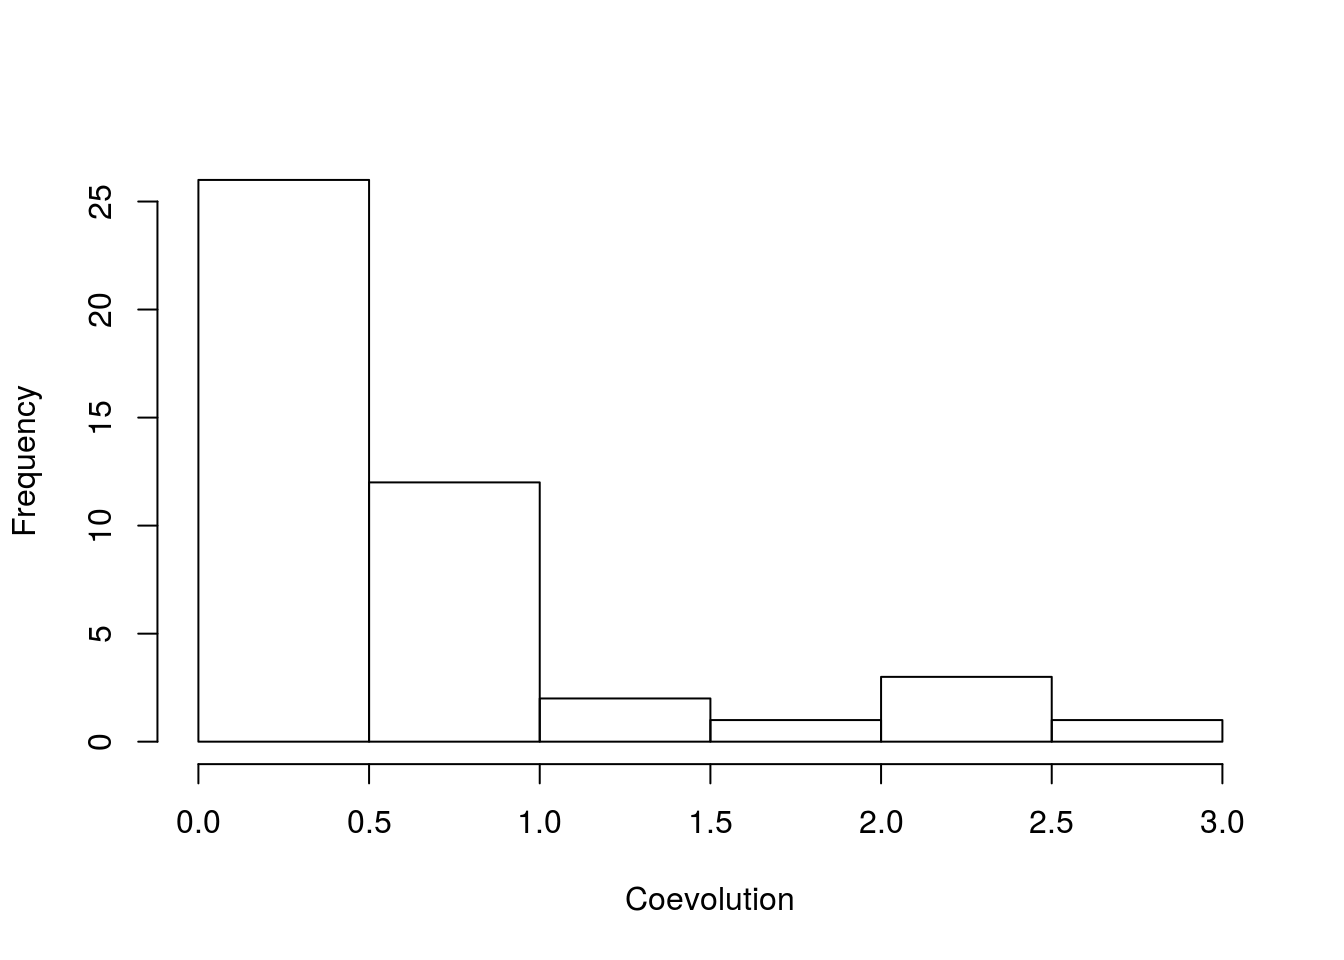
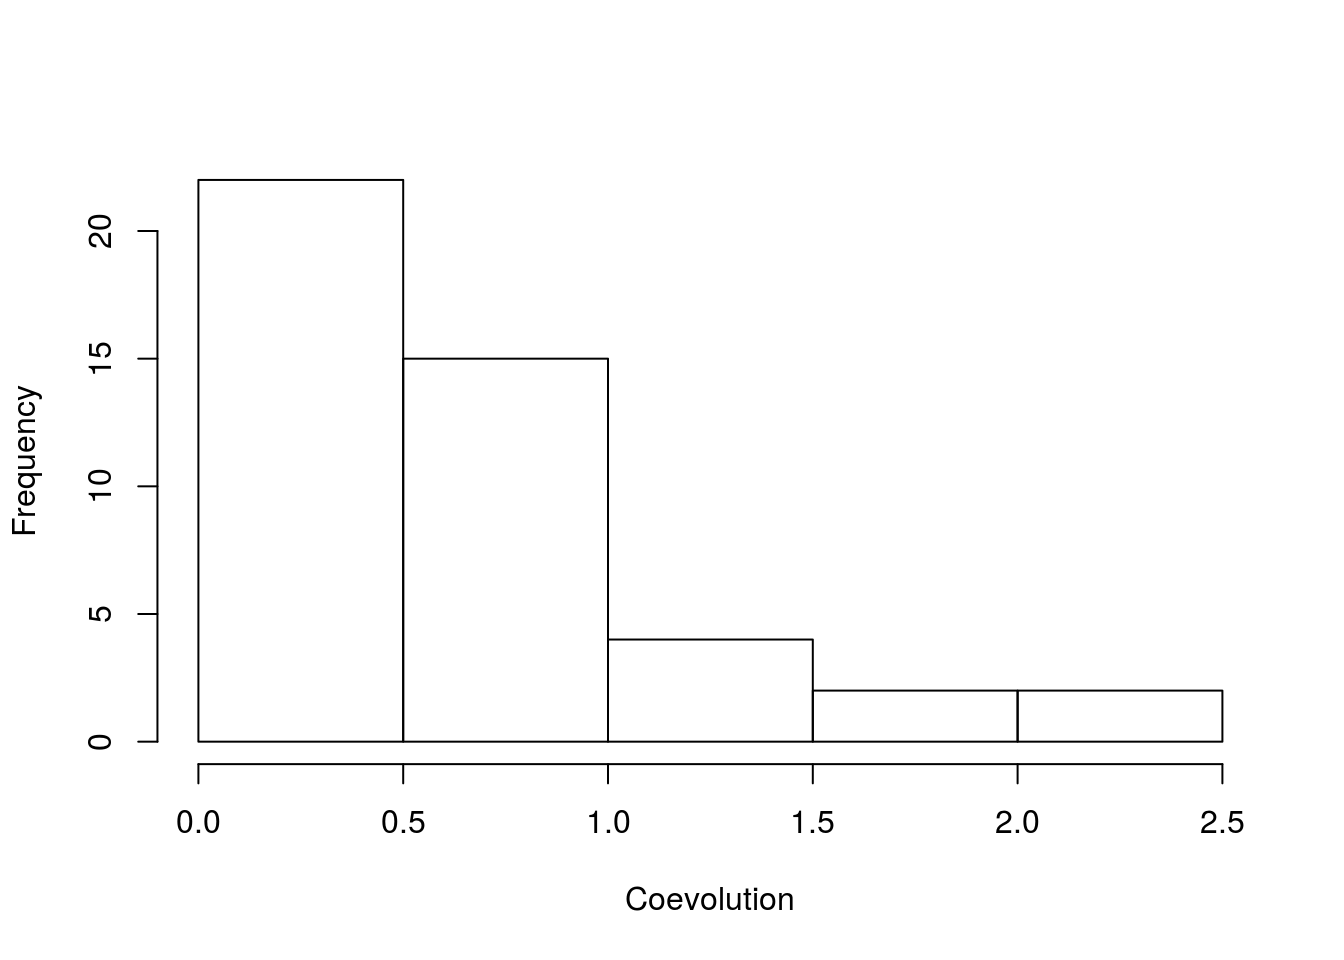
stuff

diff --git a/outline.html b/outline.html
@@ -230,21 +230,28 @@ output:
 <h2>Background</h2>
 <div id="coevolution-and-its-measurement" class="section level3">
 <h3>Coevolution and its measurement</h3>
+<p>I define an <strong>interaction community</strong> as a graph whose vertices represent a set of species and is connected in the graph-theoretic sense by edges which represent pairwise interactions. This means that for any two species, we can traverse the community via pairwise interactions to get from one species to any other species. If the graph is disconnected, I refer to this set of species as a composite community since it would be the union of a set of component interaction communities.</p>
+<p>A <strong>coevolving community</strong> is a subset of an interaction community that is connected in the graph-theoretic sense by coevolving pairs of species. Thus, an interaction community is a coevolving community if all of its members have sufficient genetic variation. In light of the above discussion, all interaction communities are trivially coevolving communities. The primary difference between the two is perspective. One notion focuses merely on whether or not species interact while the other includes the strengths by which they coevolve.</p>
 <p>It is important to distinguish between species that have coevolved and species that are currently coevolving. The classic idea of coevolution involves the observation of a pair of traits in two interacting species that appear well matched. Textbook examples include the proboscis length of Darwins moth and the corolla length of Darwins orchid as well as the levels of TTX in the flesh of newts of the genus Taricha and the resistance to TTX in the predatory snakes Thamnophsis sertalis. These are traits that have supposedly evolved over relatively long periods of time through the interactions of these species pairs. What makes these cases especially distinct as putative examples of coevolution is the fact that both traits in each pair are abnormal and thus seem to have simultaneously evolved in response to the interaction. This reciprocal response to selection induced by their interaction is the definition of coevolution provided by Daniel Janzen (citation).</p>
 <p>However, by this definition alone, these classic cases of potentially coevolved traits provide only a small subset of all the coevolution that has occurred and is occurring in nature. By this definition, species are not required to interact for long periods of time to coevolve. Instead they just need to exert reciprocal selection on one another and also respond to that selection. For any pair of interacting species there is certainly some amount of selection being imparted by one onto the other, though the strength of this selection may be so trivial it would escape any method of detection ever concieved. Hence, so long as there is sufficient genetic variation underlying the trait in both parties, any currently interacting pairs of species are coevolving by default. If their coevolution is having noticable impacts on the evolutionary trajectories of these species, the situation returns to the colloquial notion of coevolution.</p>
-<p>The point is not that the currently accepted definition of coevolution needs to be modified, but that it implies a much broader set of situations than typically thought of. This observation leads neatly to definitions of coevolution in the broader community context where a set of many interacting species are considered at once. However, before I dive into these definitions, we can use a bit of math to clarify this discussion.</p>
-<p>In quantitative genetics the breeder’s equation is the primary engine that drives many models of evolution. This equation can be written <span class="math inline">\(\Delta\bar z=G\beta\)</span> where <span class="math inline">\(\Delta\bar z\)</span> represents the change in mean trait of a population over a single generation, <span class="math inline">\(G\)</span> is the additive genetic variance of that trait and <span class="math inline">\(\beta\)</span> is the selection gradient that denotes the magnitude and direction of selection. We can partition the selection gradient into biotic <span class="math inline">\((\mathcal{B})\)</span> and abiotic <span class="math inline">\((\mathcal{A})\)</span> sources to obtain <span class="math inline">\(\beta=\mathcal{B}+\mathcal{A}\)</span>. For a collection of species I write <span class="math inline">\(\mathcal{B}_{ij}\)</span> for the biotic selection gradient imposed on species <span class="math inline">\(i\)</span> by species <span class="math inline">\(j\)</span>. The net biotic selection gradient for species <span class="math inline">\(i\)</span> is <span class="math inline">\(\mathcal{B}_i=\sum_j\mathcal{B}_{ij}\)</span>. By Janzen’s definition species <span class="math inline">\(i\)</span> and <span class="math inline">\(j\)</span> are coevolving iff <span class="math inline">\(|\mathcal{B}_{ij}|,|\mathcal{B}_{ji}|&gt;0\)</span> and <span class="math inline">\(G_i,G_j&gt;0\)</span>. Note that for a pair of coevolving species it is not necessary for <span class="math inline">\(|\beta_i|,|\beta_j|&gt;0\)</span> or for <span class="math inline">\(|\mathcal{B}_i|,|\mathcal{B}_j|&gt;0\)</span> since the net effect of many interactions, both biotic and abiotic, may cancel with each other to produce no overall change in <span class="math inline">\(\bar z_i\)</span> or <span class="math inline">\(\bar z_j\)</span>. Of course, <span class="math inline">\(\Delta\bar z_i=0\)</span> only if a delicate balance is held. By subsequently setting <span class="math inline">\(\mathcal{B}_{ij}\)</span> to zero would result in <span class="math inline">\(\Delta\bar z_i=-G_i\mathcal{B}_{ij}\)</span> (by the fundamental theorem of addition). Hence, <span class="math inline">\(\Delta\bar z_i=0\)</span> can be the response to selection implied by coevolution.</p>
-<p>Returning to the point being made above, for any pair of interacing species <span class="math inline">\((i,j)\)</span> the probaility that either <span class="math inline">\(\mathcal{B}_{ij}\)</span> or <span class="math inline">\(\mathcal{B}_{ji}\)</span> are equal to zero is zero. Using the same argument for the magnitudes of <span class="math inline">\(G_i\)</span> and <span class="math inline">\(G_j\)</span>, then we will always find at least some <span class="math inline">\(\epsilon\)</span>-amount of coevolution for any given pair of interacting species. This is fine; it should be understood that coevolution is continuous in value, not binary. Also, the triviality of this notion of coevolution does not remove its relevance, but emphasizes the need to measure it. I define the <strong>strength of coevolution</strong> between species <span class="math inline">\(i\)</span> and <span class="math inline">\(j\)</span> as <span class="math inline">\(C_{ij}=G_iG_j|\mathcal{B}_{ij}\mathcal{B}_{ji}|\)</span>. From this metric we can construct other measurements that provide insight into the coevolutionary structure of communities. For example suppose species <span class="math inline">\(i\)</span> interacts with the set <span class="math inline">\(I_i\)</span> of species and <span class="math inline">\(j\)</span> interacts with <span class="math inline">\(I_j\)</span>. Set <span class="math inline">\(\gamma_i={\mathrm{argmax}}_{l\in I_i}\{C_{il}\}\)</span> and <span class="math inline">\(\lambda_i={\mathrm{argmax}}_{l\in I_i\setminus\{\gamma_i\}}\{C_{il}\}\)</span>. If <span class="math inline">\(\gamma_i=j\)</span> and <span class="math inline">\(\gamma_j=i\)</span> then coevolution is strongest between species <span class="math inline">\(i\)</span> and <span class="math inline">\(j\)</span> than between <span class="math inline">\(i\)</span> and any of its partners other than <span class="math inline">\(j\)</span> and likewise for <span class="math inline">\(j\)</span>. As this particular strength of coevolution increases above the rest, a pairwise coevolutionary situation emerges.</p>
-<p>Once again, however, there is no threshold from which the coevolutionary relationship between this pair of species immediately transitions to pairwise. One potential measure of pairwise coevolution is <span class="math inline">\(C^2_{ij}-C_{i\lambda_i}C_{j\lambda_j}\)</span>. But this would only make sense when <span class="math inline">\(\gamma_i=j\)</span> and <span class="math inline">\(\gamma_j=i\)</span>. Instead we need a notion of <strong>evolutionary affinity</strong> for species <span class="math inline">\(i\)</span> that can be captured by <span class="math inline">\(\phi_i\equiv C^2_{i\gamma_i}-C_{i\lambda_i}C_{\gamma_i\lambda_{\gamma_i}}\)</span> (note that when <span class="math inline">\(\phi_i=\phi_{\gamma_i}\)</span> this corresponds to a measure of pairwise coevolution since it implies that <span class="math inline">\(\gamma_i=j\)</span> and <span class="math inline">\(\gamma_j=i\)</span>). Another measure that is relevant to the community level I call <strong>pairwisivity</strong> (<span class="math inline">\(\pi\)</span>) and define it to be the fraction of coevolving pairs for which <span class="math inline">\(\gamma_i=j\)</span> and <span class="math inline">\(\gamma_j=i\)</span>. For theses cases I’ll write <span class="math inline">\(\phi_{ij}\)</span> instead of <span class="math inline">\(\phi_i\)</span> or <span class="math inline">\(\phi_j\)</span> to emphasize the pairwise relationship between species <span class="math inline">\(i\)</span> and <span class="math inline">\(j\)</span>. Denoting <span class="math inline">\(\Pi\)</span> as the set of all species pairs for which <span class="math inline">\(\phi_i=\phi_j=\phi_{ij}\)</span> we can provide a cursory definition of the <strong>intensity of pairwisivity</strong> as</p>
-<p><span class="math display">\[\iota=\pi\sum_{(ij)\in\Pi}\phi_{ij}.\]</span></p>
+<p>The point is not that the currently accepted definition of coevolution needs to be modified, but that it implies a much broader set of situations than typically thought of. This observation leads neatly to notioins of coevolution in the broader community context where a set of many interacting species are considered at once.</p>
+<p>In quantitative genetics the breeder’s equation is the primary engine that drives many models of evolution. This equation can be written <span class="math inline">\(\Delta\bar z=G\beta\)</span> where <span class="math inline">\(\Delta\bar z\)</span> represents the change in mean trait of a population over a single generation, <span class="math inline">\(G\)</span> is the additive genetic variance of that trait and <span class="math inline">\(\beta\)</span> is the selection gradient that denotes the magnitude and direction of selection. We can partition the selection gradient into biotic <span class="math inline">\((\mathcal{B})\)</span> and abiotic <span class="math inline">\((\mathcal{A})\)</span> sources to obtain <span class="math inline">\(\beta=\mathcal{B}+\mathcal{A}\)</span>. For a collection of species I write <span class="math inline">\(\mathcal{B}_{ij}\)</span> for the biotic selection gradient imposed on species <span class="math inline">\(i\)</span> by species <span class="math inline">\(j\)</span>. The net biotic selection gradient for species <span class="math inline">\(i\)</span> is <span class="math inline">\(\mathcal{B}_i=\sum_j\mathcal{B}_{ij}\)</span>. By Janzen’s definition species <span class="math inline">\(i\)</span> and <span class="math inline">\(j\)</span> are coevolving iff <span class="math inline">\(|\mathcal{B}_{ij}|,|\mathcal{B}_{ji}|&gt;0\)</span> and <span class="math inline">\(G_i,G_j&gt;0\)</span>. Note that for a pair of coevolving species it is not necessary for <span class="math inline">\(|\beta_i|,|\beta_j|&gt;0\)</span> or for <span class="math inline">\(|\mathcal{B}_i|,|\mathcal{B}_j|&gt;0\)</span> since the net effect of many interactions, both biotic and abiotic, may cancel with each other to produce no overall change in <span class="math inline">\(\bar z_i\)</span> or <span class="math inline">\(\bar z_j\)</span>. Of course, <span class="math inline">\(\Delta\bar z_i=0\)</span> only if a delicate balance is held. By subsequently setting <span class="math inline">\(\mathcal{B}_{ij}\)</span> to zero would result in <span class="math inline">\(\Delta\bar z_i=-G_i\mathcal{B}&#39;_{ij}\)</span> where <span class="math inline">\(\mathcal{B}&#39;_{ij}\)</span> is the previous biotic selection gradient. Hence, the absence of change can be the response to selection implied by coevolution.</p>
+<p>Returning to the point being made above, for any pair of interacing species <span class="math inline">\((i,j)\)</span> the probaility that either <span class="math inline">\(\mathcal{B}_{ij}\)</span> or <span class="math inline">\(\mathcal{B}_{ji}\)</span> are equal to zero is zero. Using the same argument for the magnitudes of <span class="math inline">\(G_i\)</span> and <span class="math inline">\(G_j\)</span>, then we will always find at least some <span class="math inline">\(\epsilon\)</span>-amount of coevolution for any given pair of interacting species. This is fine; it should be understood that coevolution is continuous in value, not binary. Also, the triviality of this notion of coevolution does not remove its relevance, but emphasizes the need to measure it. I define the <strong>strength of coevolution</strong> between species <span class="math inline">\(i\)</span> and <span class="math inline">\(j\)</span> as <span class="math inline">\(C_{ij}=G_iG_j|\mathcal{B}_{ij}\mathcal{B}_{ji}|\)</span>. From this metric we can construct other measurements that provide insight into the coevolutionary structure of communities. For example suppose species <span class="math inline">\(i\)</span> interacts with the set <span class="math inline">\(I_i\)</span> of species and <span class="math inline">\(j\)</span> interacts with <span class="math inline">\(I_j\)</span>. Set <span class="math inline">\(\gamma_i={\mathrm{argmax}}_{l\in I_i}\{C_{il}\}\)</span>. If <span class="math inline">\(\gamma_i=j\)</span> and <span class="math inline">\(\gamma_j=i\)</span> then coevolution is strongest between species <span class="math inline">\(i\)</span> and <span class="math inline">\(j\)</span> than between <span class="math inline">\(i\)</span> and any of its partners other than <span class="math inline">\(j\)</span> and likewise for <span class="math inline">\(j\)</span>. As this particular strength of coevolution increases above the rest, a pairwise coevolutionary situation emerges.</p>
+<p>Once again, however, there is no threshold from which the coevolutionary relationship between this pair of species immediately transitions to pairwise. Setting <span class="math inline">\(\lambda_i={\mathrm{argmax}}_{l\in I_i\setminus\{\gamma_i\}}\{C_{il}\}\)</span>, one potential measure of pairwise coevolution is <span class="math inline">\(C^2_{ij}-C_{i\lambda_i}C_{j\lambda_j}\)</span>. But this would only make sense when <span class="math inline">\(\gamma_i=j\)</span> and <span class="math inline">\(\gamma_j=i\)</span>. Instead we need a notion that describes the degree to which a species is uniquely evolving in response to another species. I call this <strong>evolutionary affinity</strong> and for species <span class="math inline">\(i\)</span> it can be captured by <span class="math inline">\(\phi_i\equiv C^2_{i\gamma_i}-C_{i\lambda_i}C_{\gamma_i\lambda_{\gamma_i}}\)</span> (note that when <span class="math inline">\(\phi_i=\phi_{\gamma_i}\)</span> this corresponds to a measure of pairwise coevolution since it implies that <span class="math inline">\(\gamma_i=j\)</span> and <span class="math inline">\(\gamma_j=i\)</span>). Another measure that is relevant to the community level I call <strong>pairwisivity</strong> (<span class="math inline">\(\pi\)</span>) and define it to be the fraction of coevolving pairs <span class="math inline">\((i,j)\)</span> for which <span class="math inline">\(\gamma_i=j\)</span> and <span class="math inline">\(\gamma_j=i\)</span>. For theses cases I’ll write <span class="math inline">\(\phi_{ij}\)</span> instead of <span class="math inline">\(\phi_i\)</span> or <span class="math inline">\(\phi_j\)</span> to emphasize the pairwise relationship between species <span class="math inline">\(i\)</span> and <span class="math inline">\(j\)</span>. Denoting <span class="math inline">\(\Pi\)</span> as the set of all species pairs for which <span class="math inline">\(\phi_i=\phi_j=\phi_{ij}\)</span> we can provide a cursory definition of the <strong>intensity of pairwisivity</strong> as</p>
+<p><span class="math display">\[\iota=\pi\sum_{(i,j)\in\Pi}\phi_{ij}.\]</span></p>
 <p>This quantity is interesting for it allows us to investigate the distinction between diffuse coevolution and pairwise coevolution. The case of diffuse coevolution is best described as a coevolving community with <span class="math inline">\(\iota=0\)</span>. As <span class="math inline">\(\iota\)</span> increases the community tends to be more populated with pairwise coevolutionary relationships.</p>
+<p>For a coevolving community we can track the evolution of <span class="math inline">\(\iota\)</span> for investigations involving the evolution of specialization.</p>
 <p>The intensity of pairwisivity of a community is a distinct notion from the degree distribution of the community which is more in line with the notion of specialization. Combining the degree of species in a community with the strength by which they coevolve with their partners leads to a notion I will call the <strong>specificity</strong> (<span class="math inline">\(\psi\)</span>) of the community. The specificity of a species is <span class="math inline">\(\psi_i=\sum_{j=1}^d\phi_{ij}\)</span>. There can be a large number of specialists in a community and yet still have <span class="math inline">\(\iota=0\)</span> if <span class="math inline">\(\phi_i\neq\phi_j\)</span> for all <span class="math inline">\(i,j\)</span>. So specialization is</p>
 <p>Affinity matrix: <span class="math inline">\([\alpha_{ij}]\equiv\left[\frac{C_{ij}}{\sum_j C_{ij}}\right]\)</span></p>
 <p>Coevolutionary generality: <span class="math inline">\(-\sum_j\alpha_{ij}\ln(\alpha_{ij})\)</span></p>
-<p>I define an <strong>interaction community</strong> as one that is connected in the graph-theoretic sense by pairwise interactions between it’s members. This means that for any two members, we can traverse the graph representing which species interact with each other to get from one member to the other. If the graph is not connected, I refer to this set of species as a composite community since it would be the union of a set of disjoint interaction communities.</p>
-<p>A <strong>coevolving community</strong> is a subset of an interaction community that is connected in the graph-theoretic sense by coevolving pairs of species. Thus, an interaction community is a coevolving community if all of its members have sufficient genetic variation. In light of the above discussion, all interaction communities are trivially coevolving communities. The primary difference between the two is perspective. One notion focuses merely on whether or not species interact while the other includes the strengths by which they coevolve.</p>
-<p>For a coevolving community we can track the evolution of <span class="math inline">\(\iota\)</span> for investigations involving the evolution of specialization.</p>
 <p>Sprinkle in prev research here.</p>
+<!--
+
+#### Inputs/Outputs formalism
+
+One missing ingredient is the reason why certain species interact and what determines their relationship. If we focus on what kind of resources are required for each species and what kind of resources are produced by each species, we can develop a more mechanistic approach. I should save this for later as I do not have the time to develop these ideas for now.
+
+-->
 </div>
 </div>
 <div id="research-questions" class="section level2">
@@ -289,7 +296,7 @@ output:
 <div id="heres-an-example-of-a-coevolving-community-with-a-high-degree-of-pairwise-coevolution." class="section level4">
 <h4>Here’s an example of a coevolving community with a high degree of pairwise coevolution.</h4>
 <p><img src="outline_files/figure-html/unnamed-chunk-2-1.png" width="672" /><img src="outline_files/figure-html/unnamed-chunk-2-2.png" width="672" /></p>
-<p>The variance in the strength of coevolution across species pairs is 0.4185746.</p>
+<p>The variance in the strength of coevolution across species pairs is 0.2906166.</p>
 </div>
 <div id="here-is-a-coevolving-community-that-is-diffuse-a-low-degree-of-pairwise-coevolution." class="section level4">
 <h4>Here is a coevolving community that is diffuse (a low degree of pairwise coevolution).</h4>
@@ -299,7 +306,7 @@ output:
 <div id="here-is-a-coevolving-community-that-is-in-between-being-diffuse-and-high-degree-pairwise" class="section level4">
 <h4>Here is a coevolving community that is in between being diffuse and high-degree pairwise</h4>
 <p><img src="outline_files/figure-html/unnamed-chunk-6-1.png" width="672" /><img src="outline_files/figure-html/unnamed-chunk-6-2.png" width="672" /></p>
-<p>The variance in the strength of coevolution across species pairs is 0.0236136.</p>
+<p>The variance in the strength of coevolution across species pairs is 0.0176013.</p>
 <p>Ok, so I admit this is a bit vague. Just because there’s lines connecting nodes, we don’t have the full picture because these lines don’t represent how these species interact, just the strength by which they interact. For a given node, some species it’s interacting with can be driving the trait of that node to increase, while others might drive it to decrease. This line of thinking leads naturally to categorizing a community. For example, in plant-pollinator interactions, the community is dileneated by whether it’s a plant being pollinated by an animal or animal pollinating a plant.</p>
 </div>
 </div>
